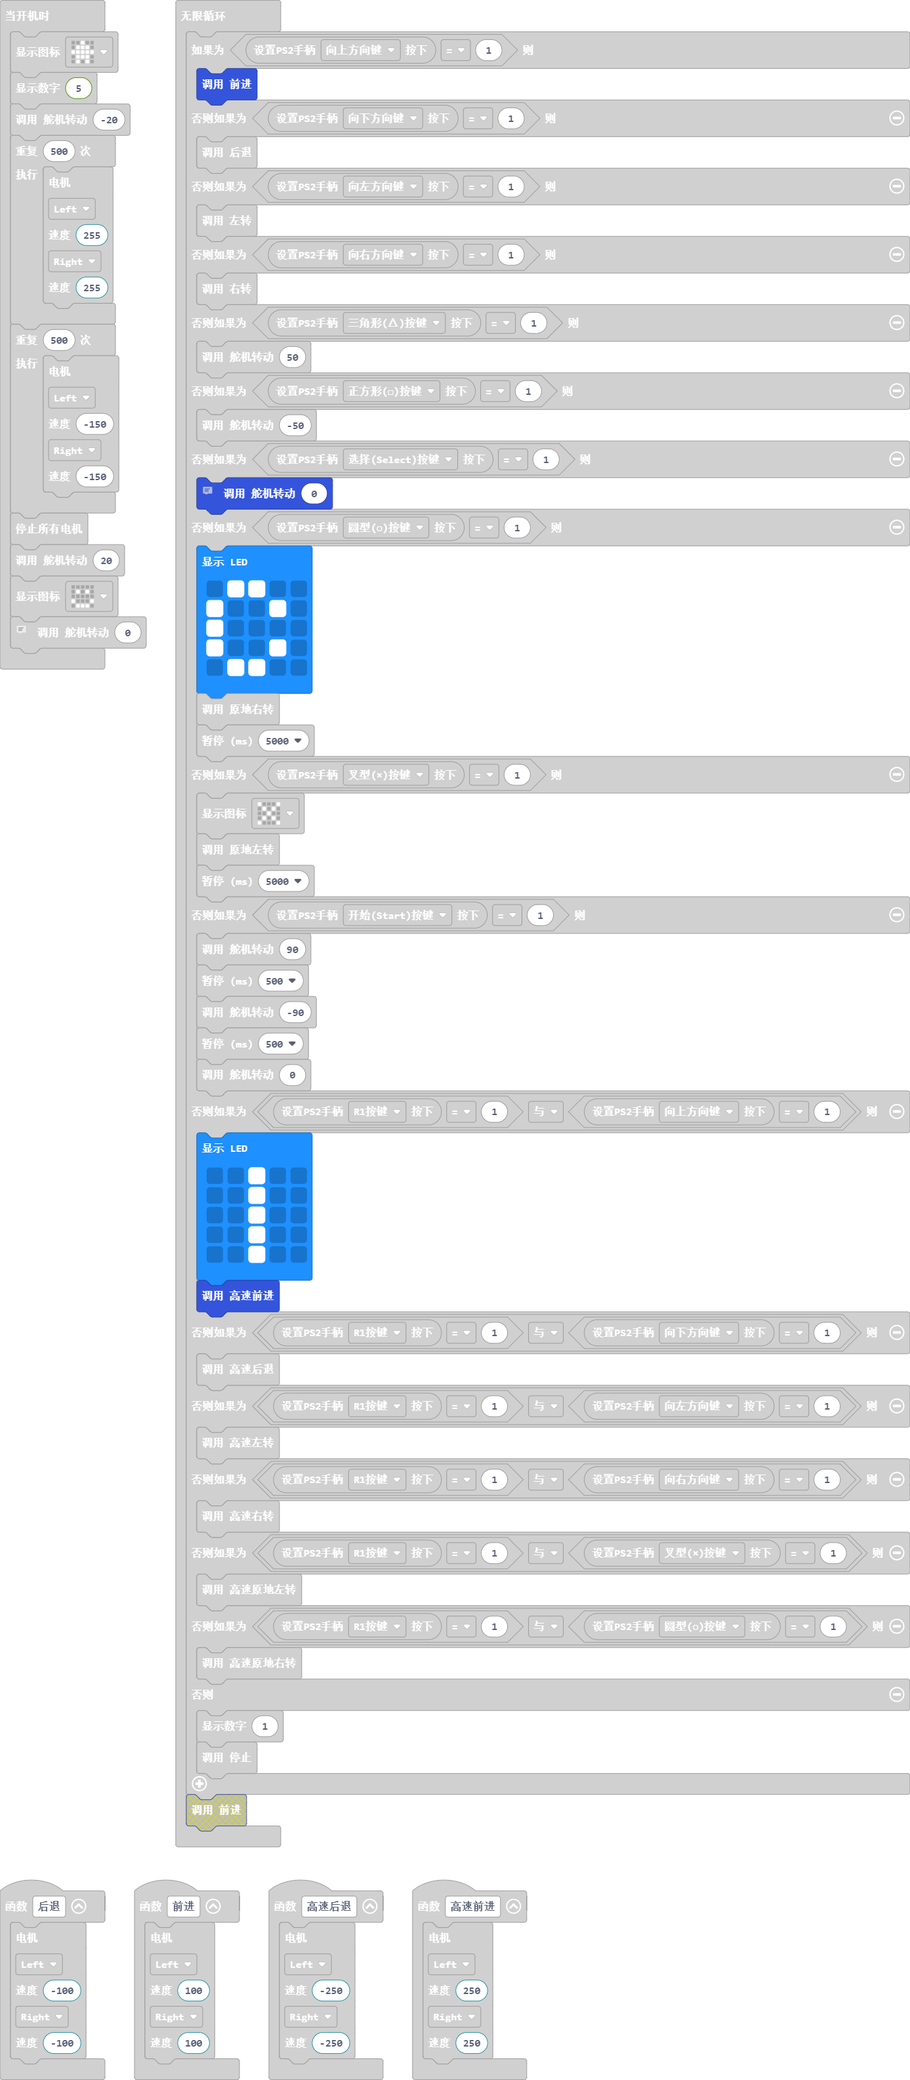
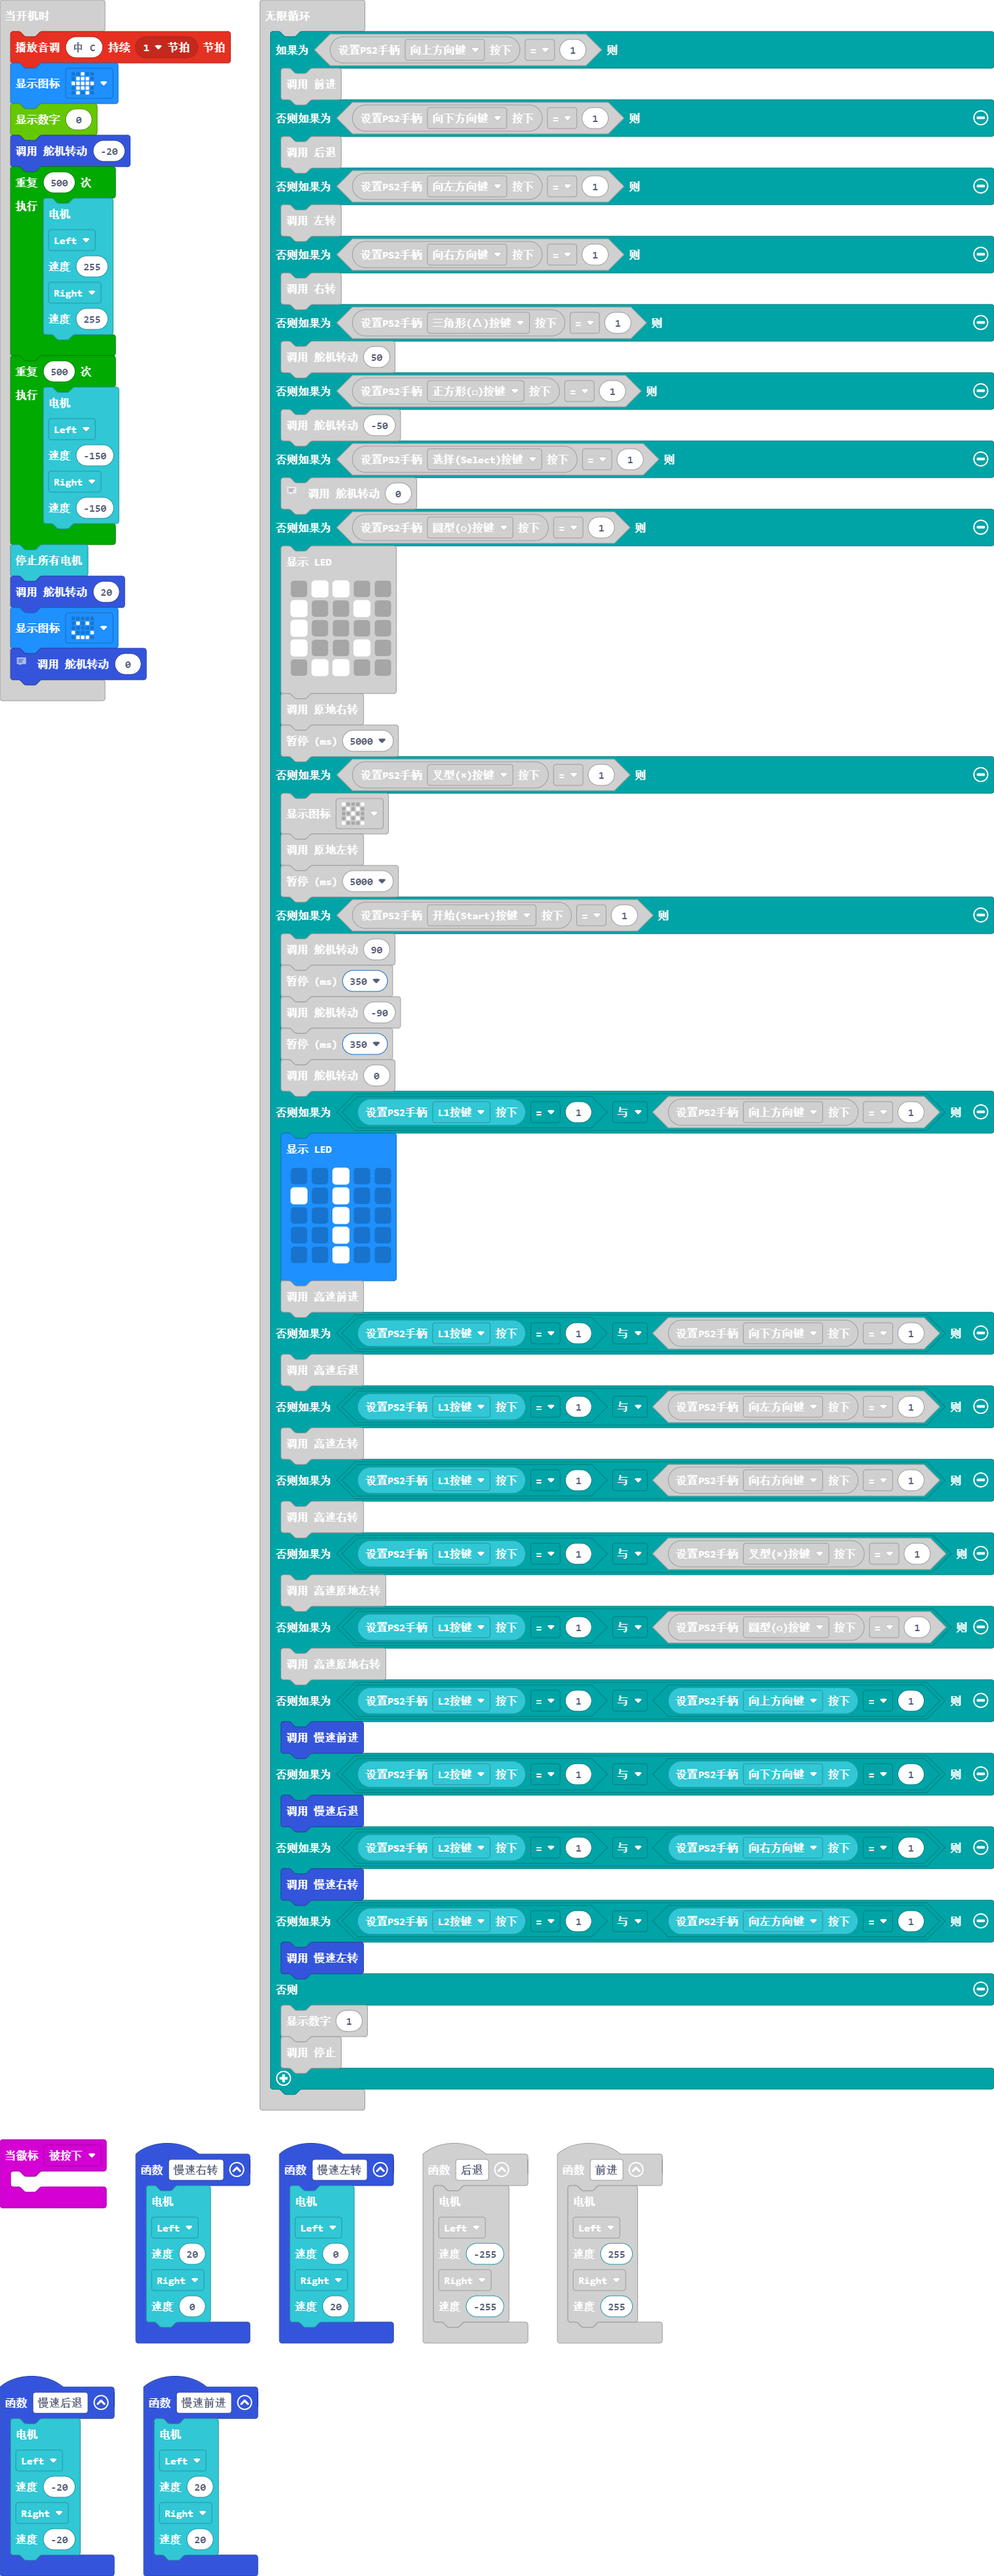
修改声音

diff --git a/main.ts b/main.ts
@@ -6,12 +6,31 @@ function 高速前进 () {
     250
     )
 }
+input.onLogoEvent(TouchButtonEvent.Pressed, function () {
+	
+})
 function 原地右转 () {
     makerobo.MotorRunDual(
     makerobo.Motors.Left,
     150,
     makerobo.Motors.Right,
     -150
+    )
+}
+function 慢速右转 () {
+    makerobo.MotorRunDual(
+    makerobo.Motors.Left,
+    20,
+    makerobo.Motors.Right,
+    0
+    )
+}
+function 慢速前进 () {
+    makerobo.MotorRunDual(
+    makerobo.Motors.Left,
+    20,
+    makerobo.Motors.Right,
+    20
     )
 }
 function 原地左转 () {
@@ -68,9 +87,9 @@ function 高速右转 () {
 function 后退 () {
     makerobo.MotorRunDual(
     makerobo.Motors.Left,
-    -100,
+    -255,
     makerobo.Motors.Right,
-    -100
+    -255
     )
 }
 function 高速左转 () {
@@ -92,9 +111,25 @@ function 高速原地右转 () {
 function 前进 () {
     makerobo.MotorRunDual(
     makerobo.Motors.Left,
-    100,
+    255,
     makerobo.Motors.Right,
-    100
+    255
+    )
+}
+function 慢速左转 () {
+    makerobo.MotorRunDual(
+    makerobo.Motors.Left,
+    0,
+    makerobo.Motors.Right,
+    20
+    )
+}
+function 慢速后退 () {
+    makerobo.MotorRunDual(
+    makerobo.Motors.Left,
+    -20,
+    makerobo.Motors.Right,
+    -20
     )
 }
 function 停止 () {
@@ -105,8 +140,9 @@ function 停止 () {
     0
     )
 }
+music.playTone(262, music.beat(BeatFraction.Whole))
 basic.showIcon(IconNames.House)
-TM1650.showNumber(5)
+TM1650.showNumber(0)
 舵机转动(-20)
 for (let index = 0; index < 500; index++) {
     makerobo.MotorRunDual(
@@ -161,29 +197,37 @@ basic.forever(function () {
         basic.pause(5000)
     } else if (ps2controller.button_pressed(ps2controller.PS2Button.Start) == 1) {
         舵机转动(90)
-        basic.pause(500)
+        basic.pause(350)
         舵机转动(-90)
-        basic.pause(500)
+        basic.pause(350)
         舵机转动(0)
-    } else if (ps2controller.button_pressed(ps2controller.PS2Button.R1) == 1 && ps2controller.button_pressed(ps2controller.PS2Button.Up) == 1) {
+    } else if (ps2controller.button_pressed(ps2controller.PS2Button.L1) == 1 && ps2controller.button_pressed(ps2controller.PS2Button.Up) == 1) {
         basic.showLeds(`
             . . # . .
-            . . # . .
+            # . # . .
             . . # . .
             . . # . .
             . . # . .
             `)
         高速前进()
-    } else if (ps2controller.button_pressed(ps2controller.PS2Button.R1) == 1 && ps2controller.button_pressed(ps2controller.PS2Button.Down) == 1) {
+    } else if (ps2controller.button_pressed(ps2controller.PS2Button.L1) == 1 && ps2controller.button_pressed(ps2controller.PS2Button.Down) == 1) {
         高速后退()
-    } else if (ps2controller.button_pressed(ps2controller.PS2Button.R1) == 1 && ps2controller.button_pressed(ps2controller.PS2Button.Left) == 1) {
+    } else if (ps2controller.button_pressed(ps2controller.PS2Button.L1) == 1 && ps2controller.button_pressed(ps2controller.PS2Button.Left) == 1) {
         高速左转()
-    } else if (ps2controller.button_pressed(ps2controller.PS2Button.R1) == 1 && ps2controller.button_pressed(ps2controller.PS2Button.Right) == 1) {
+    } else if (ps2controller.button_pressed(ps2controller.PS2Button.L1) == 1 && ps2controller.button_pressed(ps2controller.PS2Button.Right) == 1) {
         高速右转()
-    } else if (ps2controller.button_pressed(ps2controller.PS2Button.R1) == 1 && ps2controller.button_pressed(ps2controller.PS2Button.Cross) == 1) {
+    } else if (ps2controller.button_pressed(ps2controller.PS2Button.L1) == 1 && ps2controller.button_pressed(ps2controller.PS2Button.Cross) == 1) {
         高速原地左转()
-    } else if (ps2controller.button_pressed(ps2controller.PS2Button.R1) == 1 && ps2controller.button_pressed(ps2controller.PS2Button.Circle) == 1) {
+    } else if (ps2controller.button_pressed(ps2controller.PS2Button.L1) == 1 && ps2controller.button_pressed(ps2controller.PS2Button.Circle) == 1) {
         高速原地右转()
+    } else if (ps2controller.button_pressed(ps2controller.PS2Button.L2) == 1 && ps2controller.button_pressed(ps2controller.PS2Button.Up) == 1) {
+        慢速前进()
+    } else if (ps2controller.button_pressed(ps2controller.PS2Button.L2) == 1 && ps2controller.button_pressed(ps2controller.PS2Button.Down) == 1) {
+        慢速后退()
+    } else if (ps2controller.button_pressed(ps2controller.PS2Button.L2) == 1 && ps2controller.button_pressed(ps2controller.PS2Button.Right) == 1) {
+        慢速右转()
+    } else if (ps2controller.button_pressed(ps2controller.PS2Button.L2) == 1 && ps2controller.button_pressed(ps2controller.PS2Button.Left) == 1) {
+        慢速左转()
     } else {
         TM1650.showNumber(1)
         停止()
